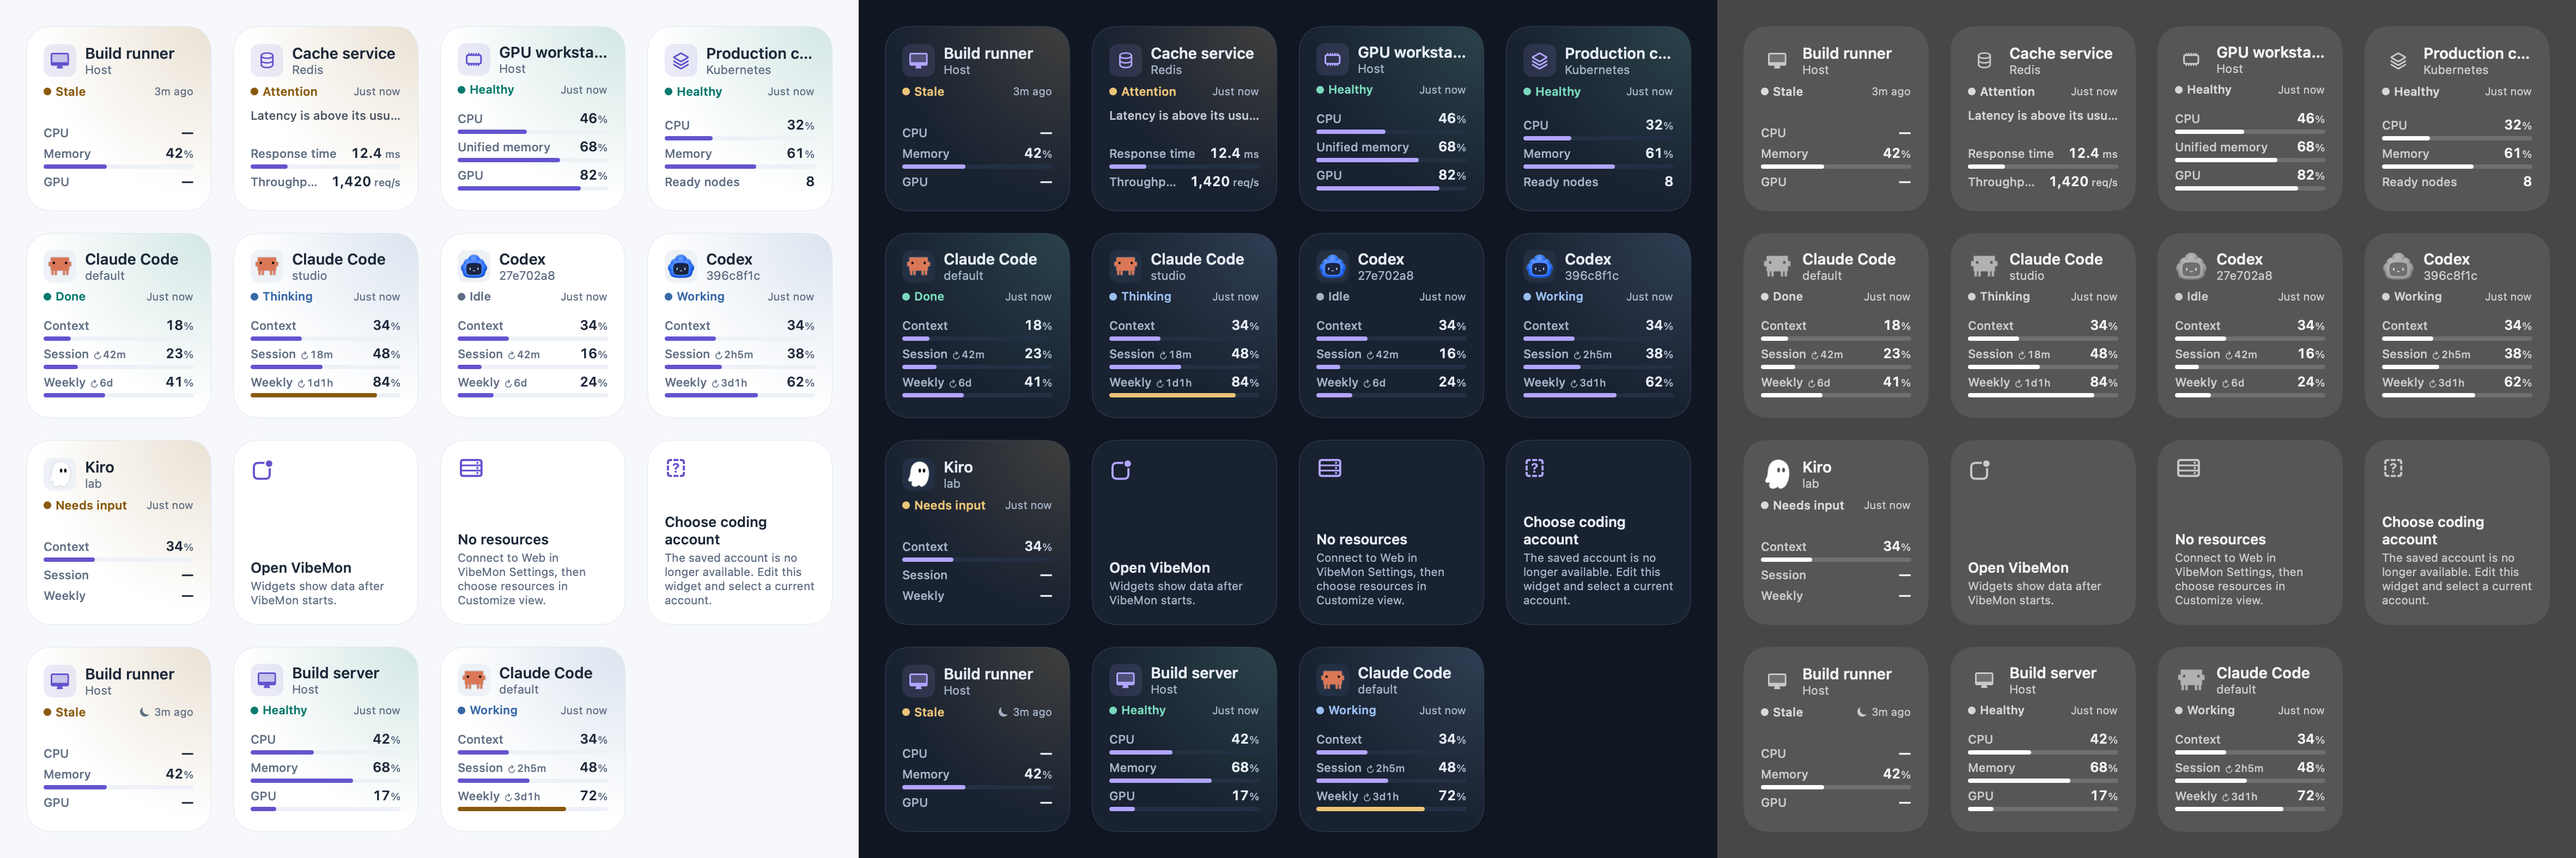
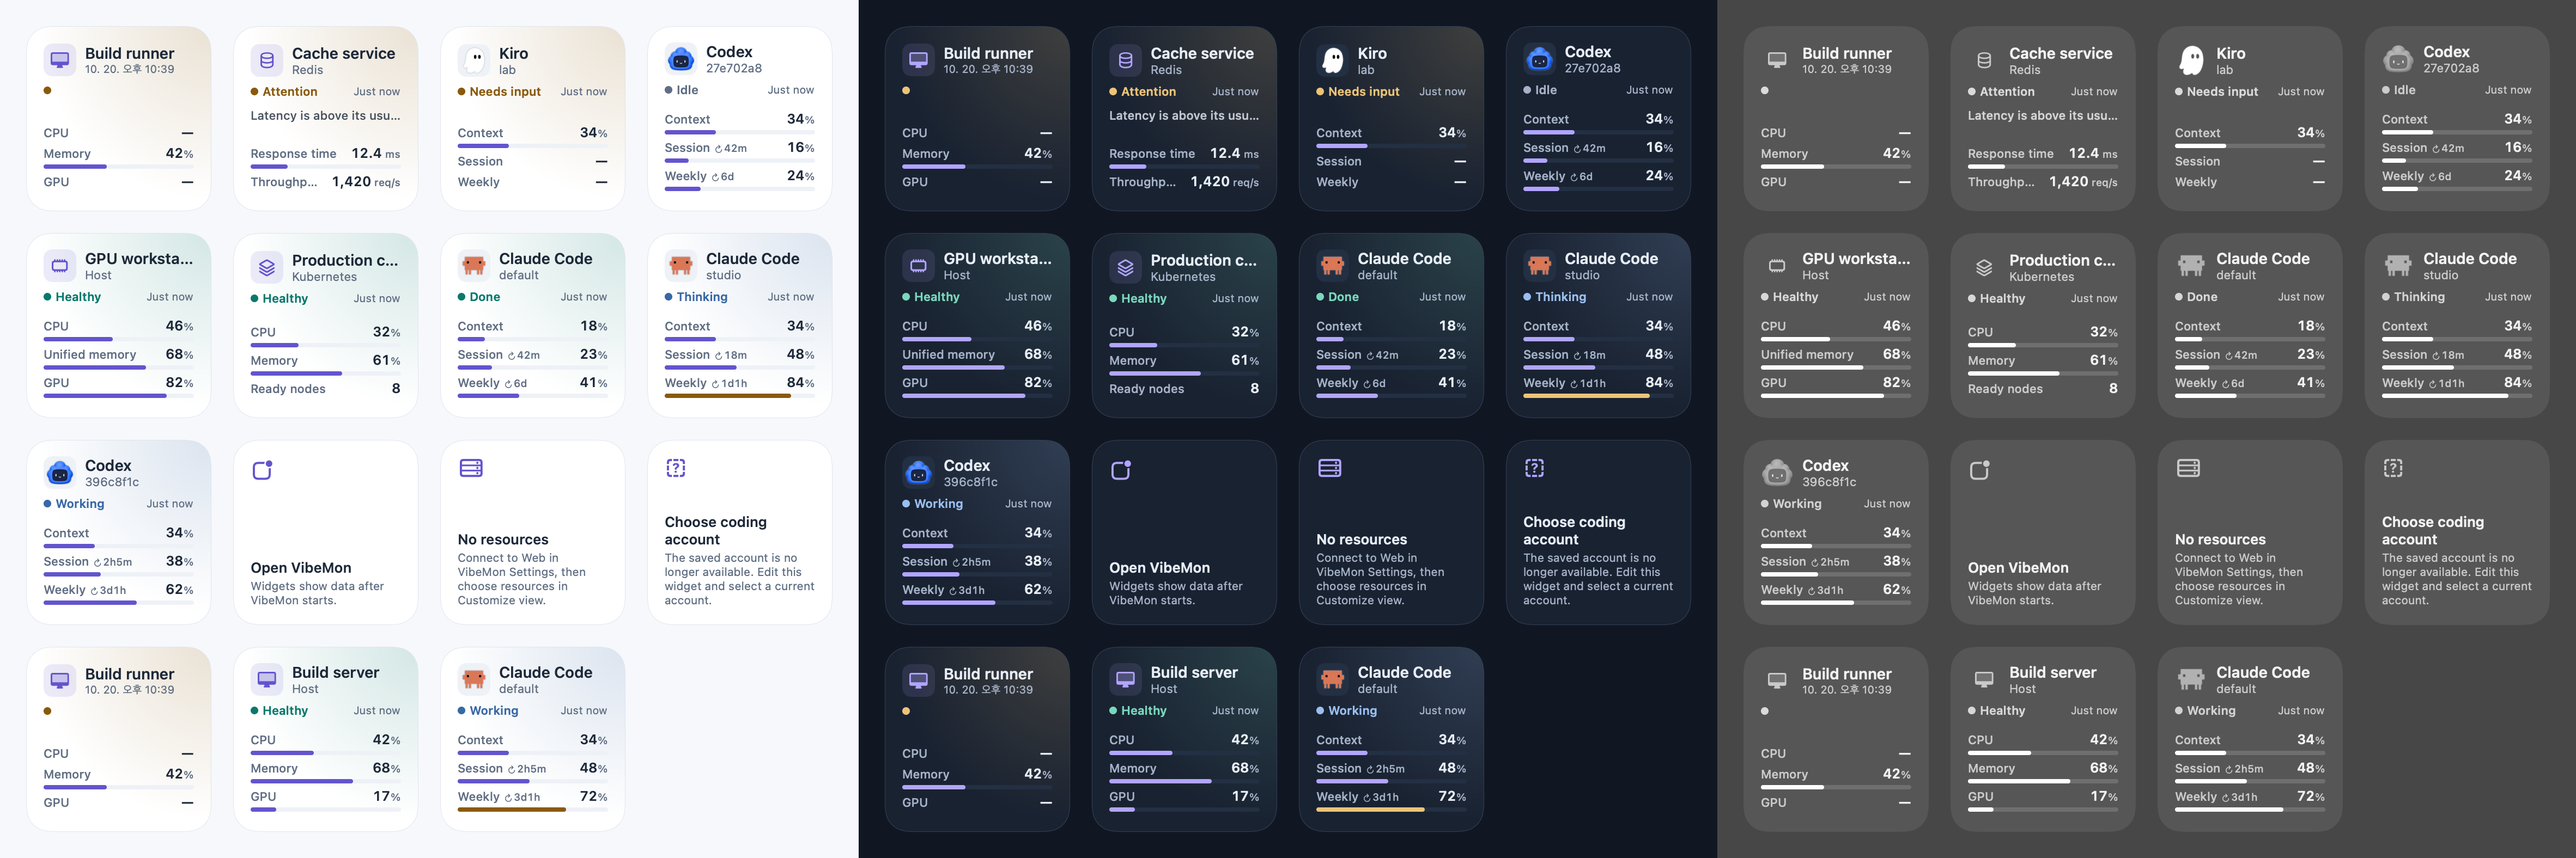
fix: 오래된 위젯 데이터의 상태 표시 개선 (3.14.1) (#122)
* fix: clarify cached widget status

* chore: release 3.14.1

* fix: describe saved widget data to VoiceOver

diff --git a/native/macos/Tests/main.swift b/native/macos/Tests/main.swift
@@ -87,6 +87,85 @@ for mode in [WidgetRenderingMode.fullColor, .accented, .vibrant] {
     }
     for image in images { verifyIcon(CharacterArt(file: image.lastPathComponent), mode: mode) }
 }
+
+@MainActor
+func statusPixels(_ state: String, label: String, age: String, running: Bool) -> NSBitmapImageRep {
+    let status = FeedStatus(at: feed.generatedAt, state: state, label: label, tone: state == "stale" ? .warning : .danger)
+    let view = StatusLine(status: status, age: age, running: running)
+        .frame(width: 130, height: 18, alignment: .leading)
+        .environment(\.colorScheme, .light)
+    let renderer = ImageRenderer(content: view)
+    renderer.scale = 3
+    guard let image = renderer.cgImage else { fatalError("Cannot render widget status") }
+    return NSBitmapImageRep(cgImage: image)
+}
+
+let stale = statusPixels("stale", label: "응답 없음", age: "now", running: true)
+let old = statusPixels("stale", label: "Stale", age: "99d", running: false)
+var statusDotPixels = 0
+for y in 0..<stale.pixelsHigh {
+    for x in 0..<stale.pixelsWide {
+        let pixel = stale.colorAt(x: x, y: y)!.usingColorSpace(.deviceRGB)!
+        let other = old.colorAt(x: x, y: y)!.usingColorSpace(.deviceRGB)!
+        precondition(pixel == other, "Stale widget status must not show a label, age, or closed-App mark")
+        if pixel.alphaComponent > 0.5 {
+            statusDotPixels += 1
+            precondition(x < 24, "Only the 7-point status dot may be visible")
+            precondition(pixel.redComponent > pixel.blueComponent && pixel.greenComponent > pixel.blueComponent, "Stale status must use the yellow warning color")
+        }
+    }
+}
+precondition(statusDotPixels > 0, "The stale status dot must remain visible")
+let errorStatus = statusPixels("error", label: "Error", age: "3m", running: true)
+precondition((30..<errorStatus.pixelsWide).contains { x in
+    (0..<errorStatus.pixelsHigh).contains { y in errorStatus.colorAt(x: x, y: y)!.alphaComponent > 0.5 }
+}, "Reported errors must retain their label and age")
+
+@MainActor
+func resourceImage(_ item: FeedItem, date: Date) -> NSBitmapImageRep {
+    let view = WidgetContentView(content: .item(item, running: true), date: date)
+        .padding(16)
+        .frame(width: 170, height: 170)
+        .background(Palette.surface)
+        .environment(\.colorScheme, .light)
+    let renderer = ImageRenderer(content: view)
+    renderer.scale = 3
+    guard let image = renderer.cgImage else {
+        fatalError("Cannot render resource timestamp")
+    }
+    return NSBitmapImageRep(cgImage: image)
+}
+
+func samePixels(_ lhs: NSBitmapImageRep, _ rhs: NSBitmapImageRep) -> Bool {
+    guard lhs.pixelsWide == rhs.pixelsWide && lhs.pixelsHigh == rhs.pixelsHigh else { return false }
+    var largest = 0.0
+    for y in 0..<lhs.pixelsHigh {
+        for x in 0..<lhs.pixelsWide {
+            let a = lhs.colorAt(x: x, y: y)!.usingColorSpace(.deviceRGB)!
+            let b = rhs.colorAt(x: x, y: y)!.usingColorSpace(.deviceRGB)!
+            let delta = max(abs(a.redComponent - b.redComponent), abs(a.greenComponent - b.greenComponent), abs(a.blueComponent - b.blueComponent), abs(a.alphaComponent - b.alphaComponent))
+            largest = max(largest, delta)
+        }
+    }
+    // SwiftUI color conversion can vary by two 8-bit levels between renders.
+    return largest <= 2.0 / 255
+}
+
+guard let resource = feed.items.first(where: { $0.kind == .resource && $0.status(at: feed.generatedAt).state == "stale" }) else {
+    fatalError("A stale resource fixture is required")
+}
+do {
+    var object = try JSONSerialization.jsonObject(with: Data(contentsOf: feedURL)) as! [String: Any]
+    var items = object["items"] as! [[String: Any]]
+    let index = items.firstIndex { $0["id"] as? String == resource.id }!
+    items[index]["observedAt"] = resource.observedAt.addingTimeInterval(-86400).formatted(.iso8601)
+    object["items"] = items
+    let older = try WidgetFeed.decode(JSONSerialization.data(withJSONObject: object)).item(id: resource.id)!
+    let original = resourceImage(resource, date: feed.generatedAt)
+    let delayed = resourceImage(resource, date: feed.generatedAt.addingTimeInterval(7200))
+    precondition(samePixels(original, delayed), "The receipt timestamp must remain factual between refreshes")
+    precondition(!samePixels(original, resourceImage(older, date: feed.generatedAt)), "The report date must be visible")
+}
 // The feed loader and future timeline use the same code as the extension.
 precondition(FeedStore.load(from: feedURL).feed?.items.count == feed.items.count)
 let sample = Samples.item(.agent, now: feed.generatedAt)

diff --git a/native/macos/Shared/WidgetViews.swift b/native/macos/Shared/WidgetViews.swift
@@ -94,7 +94,7 @@ private struct ItemView: View {
 
     var body: some View {
         VStack(alignment: .leading, spacing: 6) {
-            Header(item: item)
+            Header(item: item, lastReceivedAt: status.state == "stale" ? item.observedAt : nil)
             StatusLine(status: status, age: Age.text(since: item.observedAt, now: date), running: running)
             // A resource message explains its state, so it takes the place of one metric.
             let message = item.kind == .resource ? item.message : nil
@@ -119,6 +119,7 @@ private struct ItemView: View {
 /// The icon, the title, and the subtitle.
 private struct Header: View {
     let item: FeedItem
+    let lastReceivedAt: Date?
 
     var body: some View {
         HStack(spacing: 8) {
@@ -131,18 +132,31 @@ private struct Header: View {
                     .font(.system(size: 14, weight: .semibold))
                     .foregroundStyle(Palette.foreground)
                     .lineLimit(1)
-                Text(item.subtitle)
-                    .font(.system(size: 11))
+                if let lastReceivedAt {
+                    let stamp = lastReceivedAt.formatted(.dateTime.month(.twoDigits).day(.twoDigits).hour().minute())
+                    ViewThatFits(in: .horizontal) {
+                        Text("\(item.subtitle) · \(stamp)")
+                        Text(stamp)
+                    }
+                    .font(.system(size: 10))
                     .foregroundStyle(Palette.muted)
                     .lineLimit(1)
+                    .accessibilityElement(children: .ignore)
+                    .accessibilityLabel(String(format: Localization.text("Last report received: %@"), stamp))
+                } else {
+                    Text(item.subtitle)
+                        .font(.system(size: 11))
+                        .foregroundStyle(Palette.muted)
+                        .lineLimit(1)
+                }
             }
         }
     }
 }
 
-/// A status dot, the state label, and the report age. After the App quits,
-/// the values are the last known ones, so a closed-App mark appears.
-private struct StatusLine: View {
+/// Stale data gets only a warning dot: a delayed widget refresh does not prove
+/// that the resource stopped responding. Other states keep their label and age.
+struct StatusLine: View {
     let status: FeedStatus
     let age: String
     let running: Bool
@@ -153,26 +167,32 @@ private struct StatusLine: View {
                 .fill(status.tone.color)
                 .frame(width: 7, height: 7)
                 .widgetAccentable()
-            Text(status.label)
-                .font(.system(size: 11, weight: .semibold))
-                .foregroundStyle(status.tone.color)
-                .lineLimit(1)
-                // Long labels, such as Needs input, share the row with the age.
-                .minimumScaleFactor(0.8)
-                .layoutPriority(1)
-            Spacer(minLength: 3)
-            if !running {
-                Image(systemName: "powersleep")
-                    .font(.system(size: 9, weight: .semibold))
+                .accessibilityElement()
+                .accessibilityLabel(Localization.text("Saved data"))
+                .accessibilityHidden(status.state != "stale")
+            if status.state != "stale" {
+                Text(status.label)
+                    .font(.system(size: 11, weight: .semibold))
+                    .foregroundStyle(status.tone.color)
+                    .lineLimit(1)
+                    // Long labels, such as Needs input, share the row with the age.
+                    .minimumScaleFactor(0.8)
+                    .layoutPriority(1)
+                Spacer(minLength: 3)
+                if !running {
+                    Image(systemName: "clock.arrow.circlepath")
+                        .font(.system(size: 9, weight: .semibold))
+                        .foregroundStyle(Palette.muted)
+                        .accessibilityLabel(Localization.text("Saved data"))
+                }
+                Text(age)
+                    .font(.system(size: 10))
+                    .monospacedDigit()
                     .foregroundStyle(Palette.muted)
-                    .accessibilityLabel(Localization.text("App closed"))
+                    .fixedSize()
             }
-            Text(age)
-                .font(.system(size: 10))
-                .monospacedDigit()
-                .foregroundStyle(Palette.muted)
-                .fixedSize()
         }
+        .frame(minHeight: 14, alignment: .leading)
     }
 }
 

diff --git a/docs/widgets.md b/docs/widgets.md
@@ -26,10 +26,10 @@ A new widget leaves its selection empty and shows the first item of its kind in 
 
 ## What the widget shows
 
-- **Header**: the icon, the name, and below the name the state in its color with the age of the last report, for example `3m`. The widget picker shows the account or resource type. States use the same names and rules as the Dashboard: a resource becomes **Stale** 120 seconds after its last receipt, and a coding agent ages to **Idle** and then **Inactive** when its hooks stop reporting.
-- **Detail line**: the collector's message for a resource, or **App closed** after VibeMon quits. A coding agent has no detail line.
+- **Header**: the icon, the name, and below the name the state in its color with the age of the last report, for example `3m`. A stale resource shows only a yellow dot in this status line, without a state label, age, or saved-data mark. Its header shows the absolute date and time of the last report received, so the values are not mistaken for live data. WidgetKit can delay a refresh, so old data does not prove that the resource stopped responding. The widget picker shows the account or resource type. State rules remain the same as the Dashboard: a resource becomes stale 120 seconds after its last receipt, and a coding agent ages to **Idle** and then **Inactive** when its hooks stop reporting.
+- **Detail line**: the collector's message for a resource. A coding agent has no detail line.
 - **Metrics**: the first three metrics selected in **Customize view** for a resource. A coding agent shows **Context**, **Session**, and **Weekly**. A plan usage bar uses the warning color from 70% and the danger color from 90%. Beside **Session** and **Weekly**, `↻ 2h5m` is the time until that limit resets: `now`, minutes (`42m`), hours and minutes (`2h5m`), or days and hours (`3d1h`). It counts down without new data and is absent when the hook reports no reset time. `—` means no measurement was reported.
-- **App closed**: VibeMon has quit. The values are the last known ones and keep aging.
+- **Saved data**: a clock mark identifies values from a saved snapshot after VibeMon quits. It does not claim that the App is still closed; a widget can wait for its next refresh after the App restarts.
 - **Desktop not focused**: macOS draws the widget in one color. The character is then drawn without its tile, so its outline stays visible, and gauges are white on a faint track.
 
 A coding agent combines all projects of one provider account. The state of the project that needs attention is shown first, for example a project waiting for input. Local hook reports replace the cloud copy of the same project. When a hook report has no usage, the widget uses the plan usage on this Mac.
